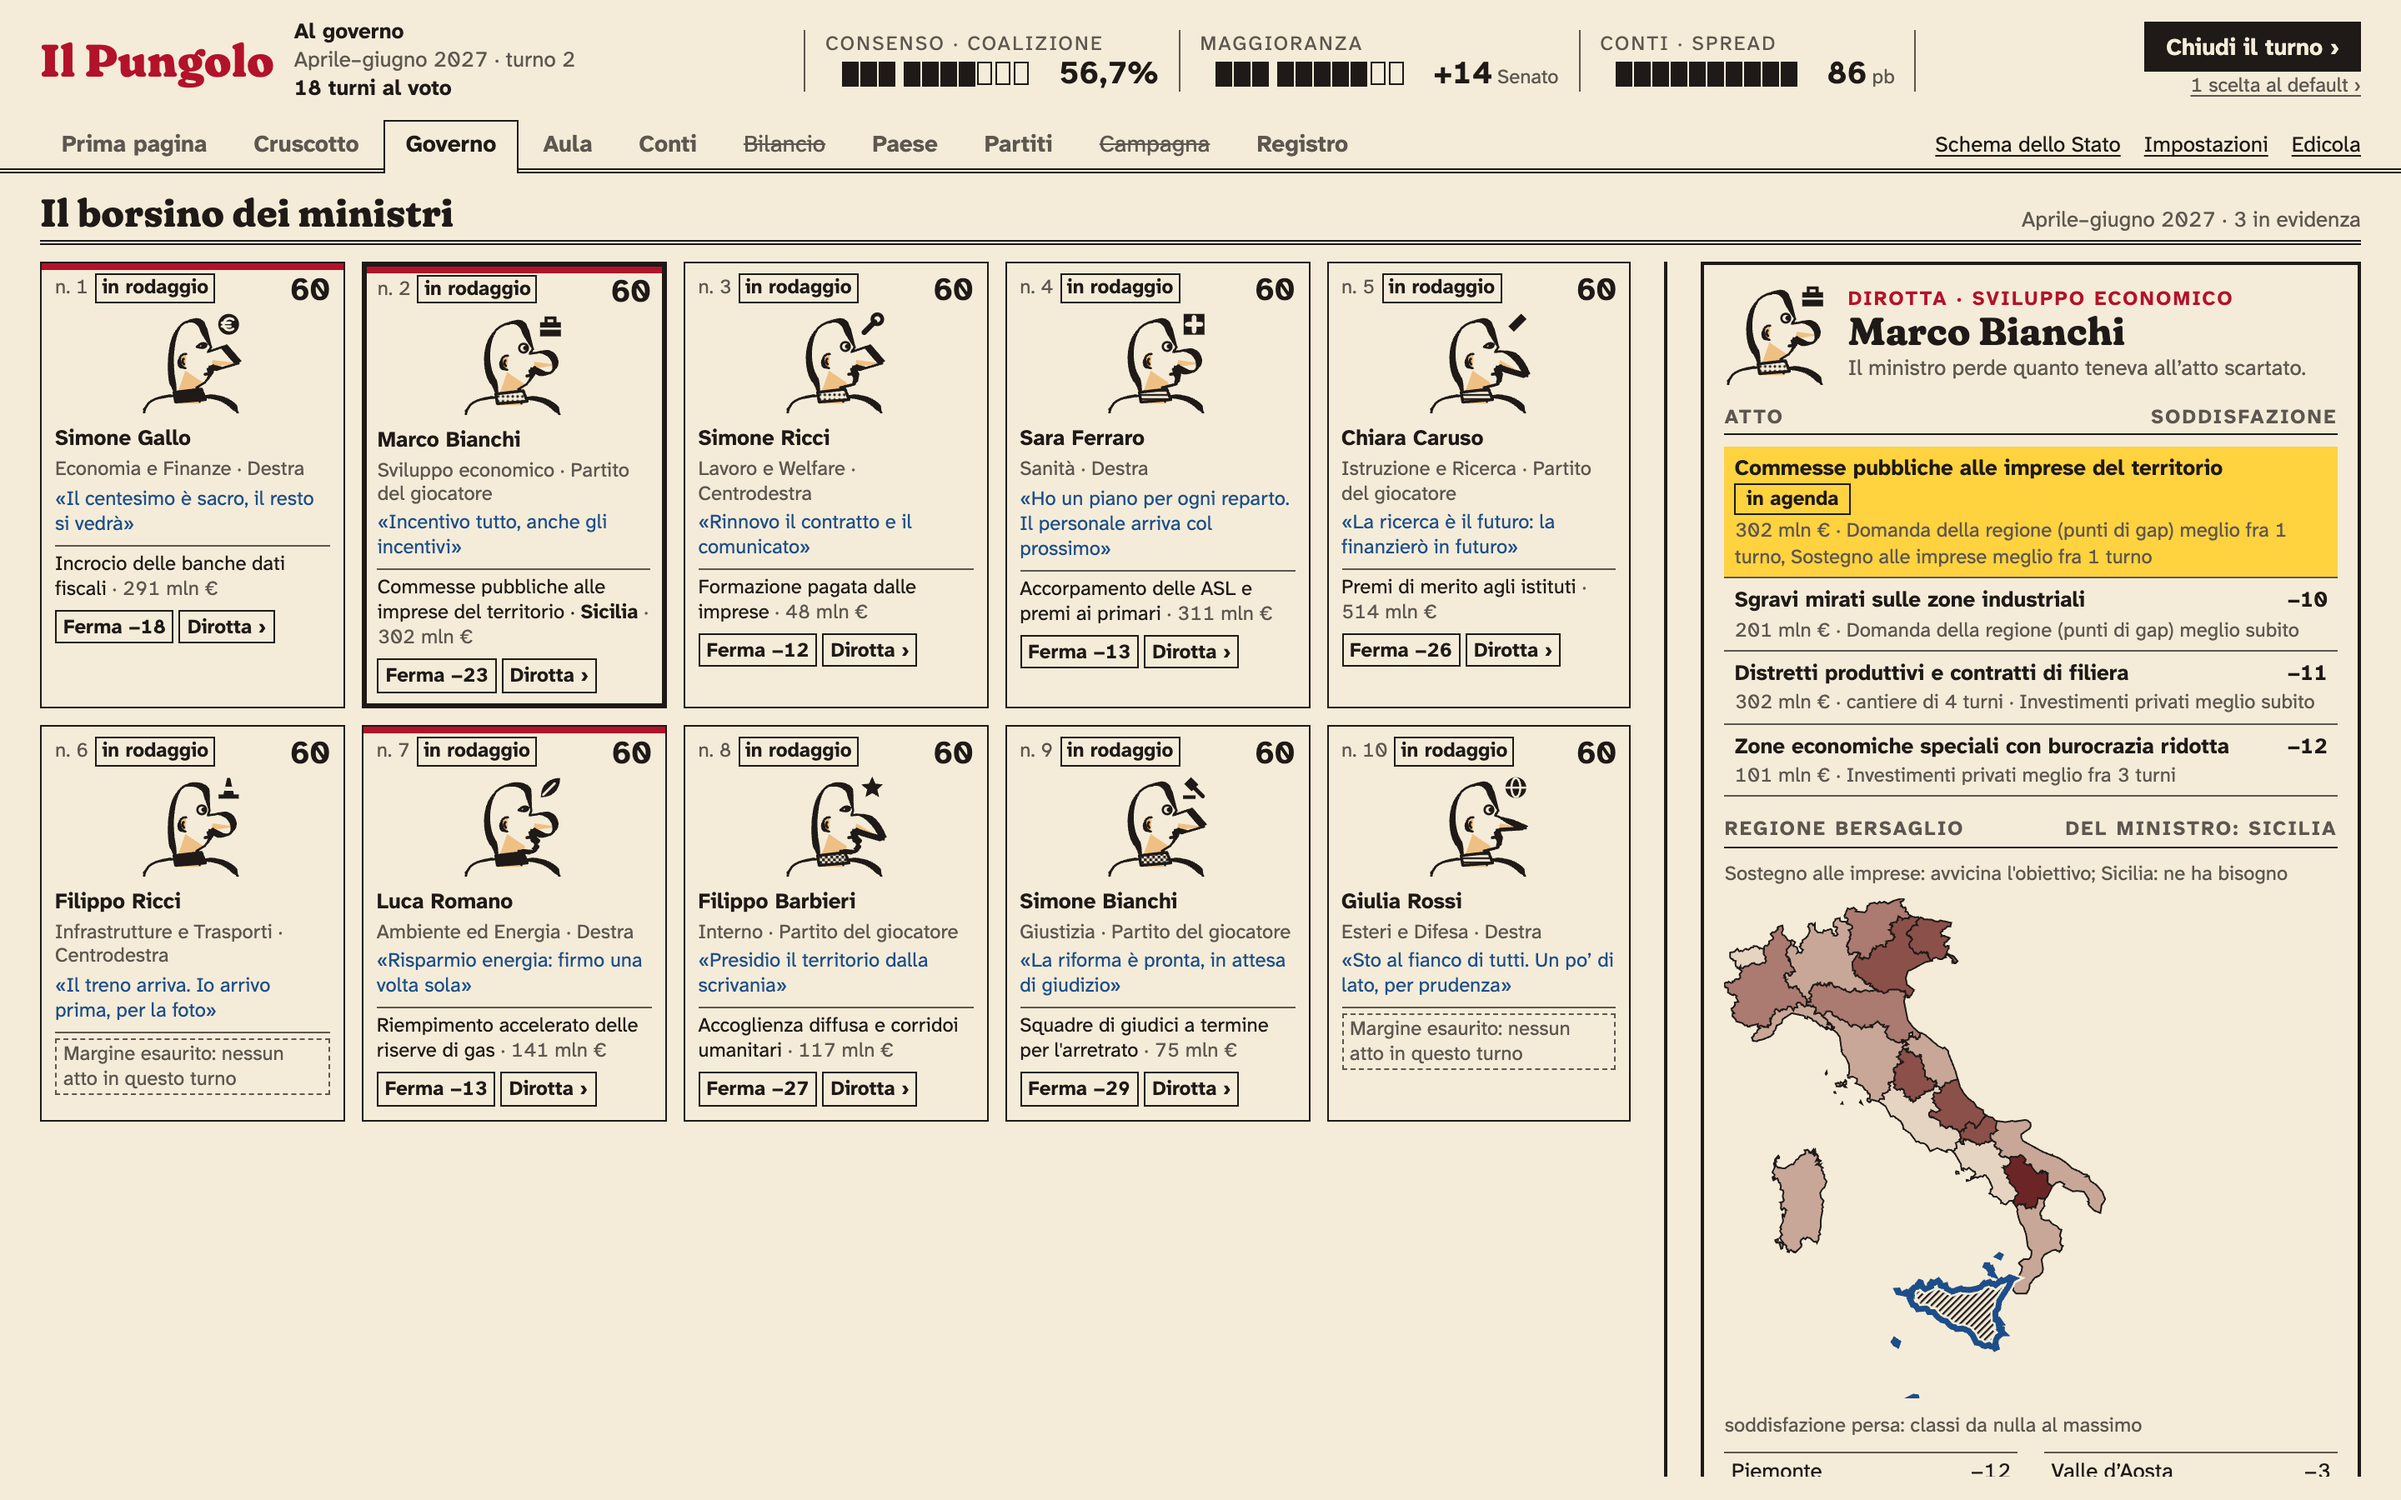
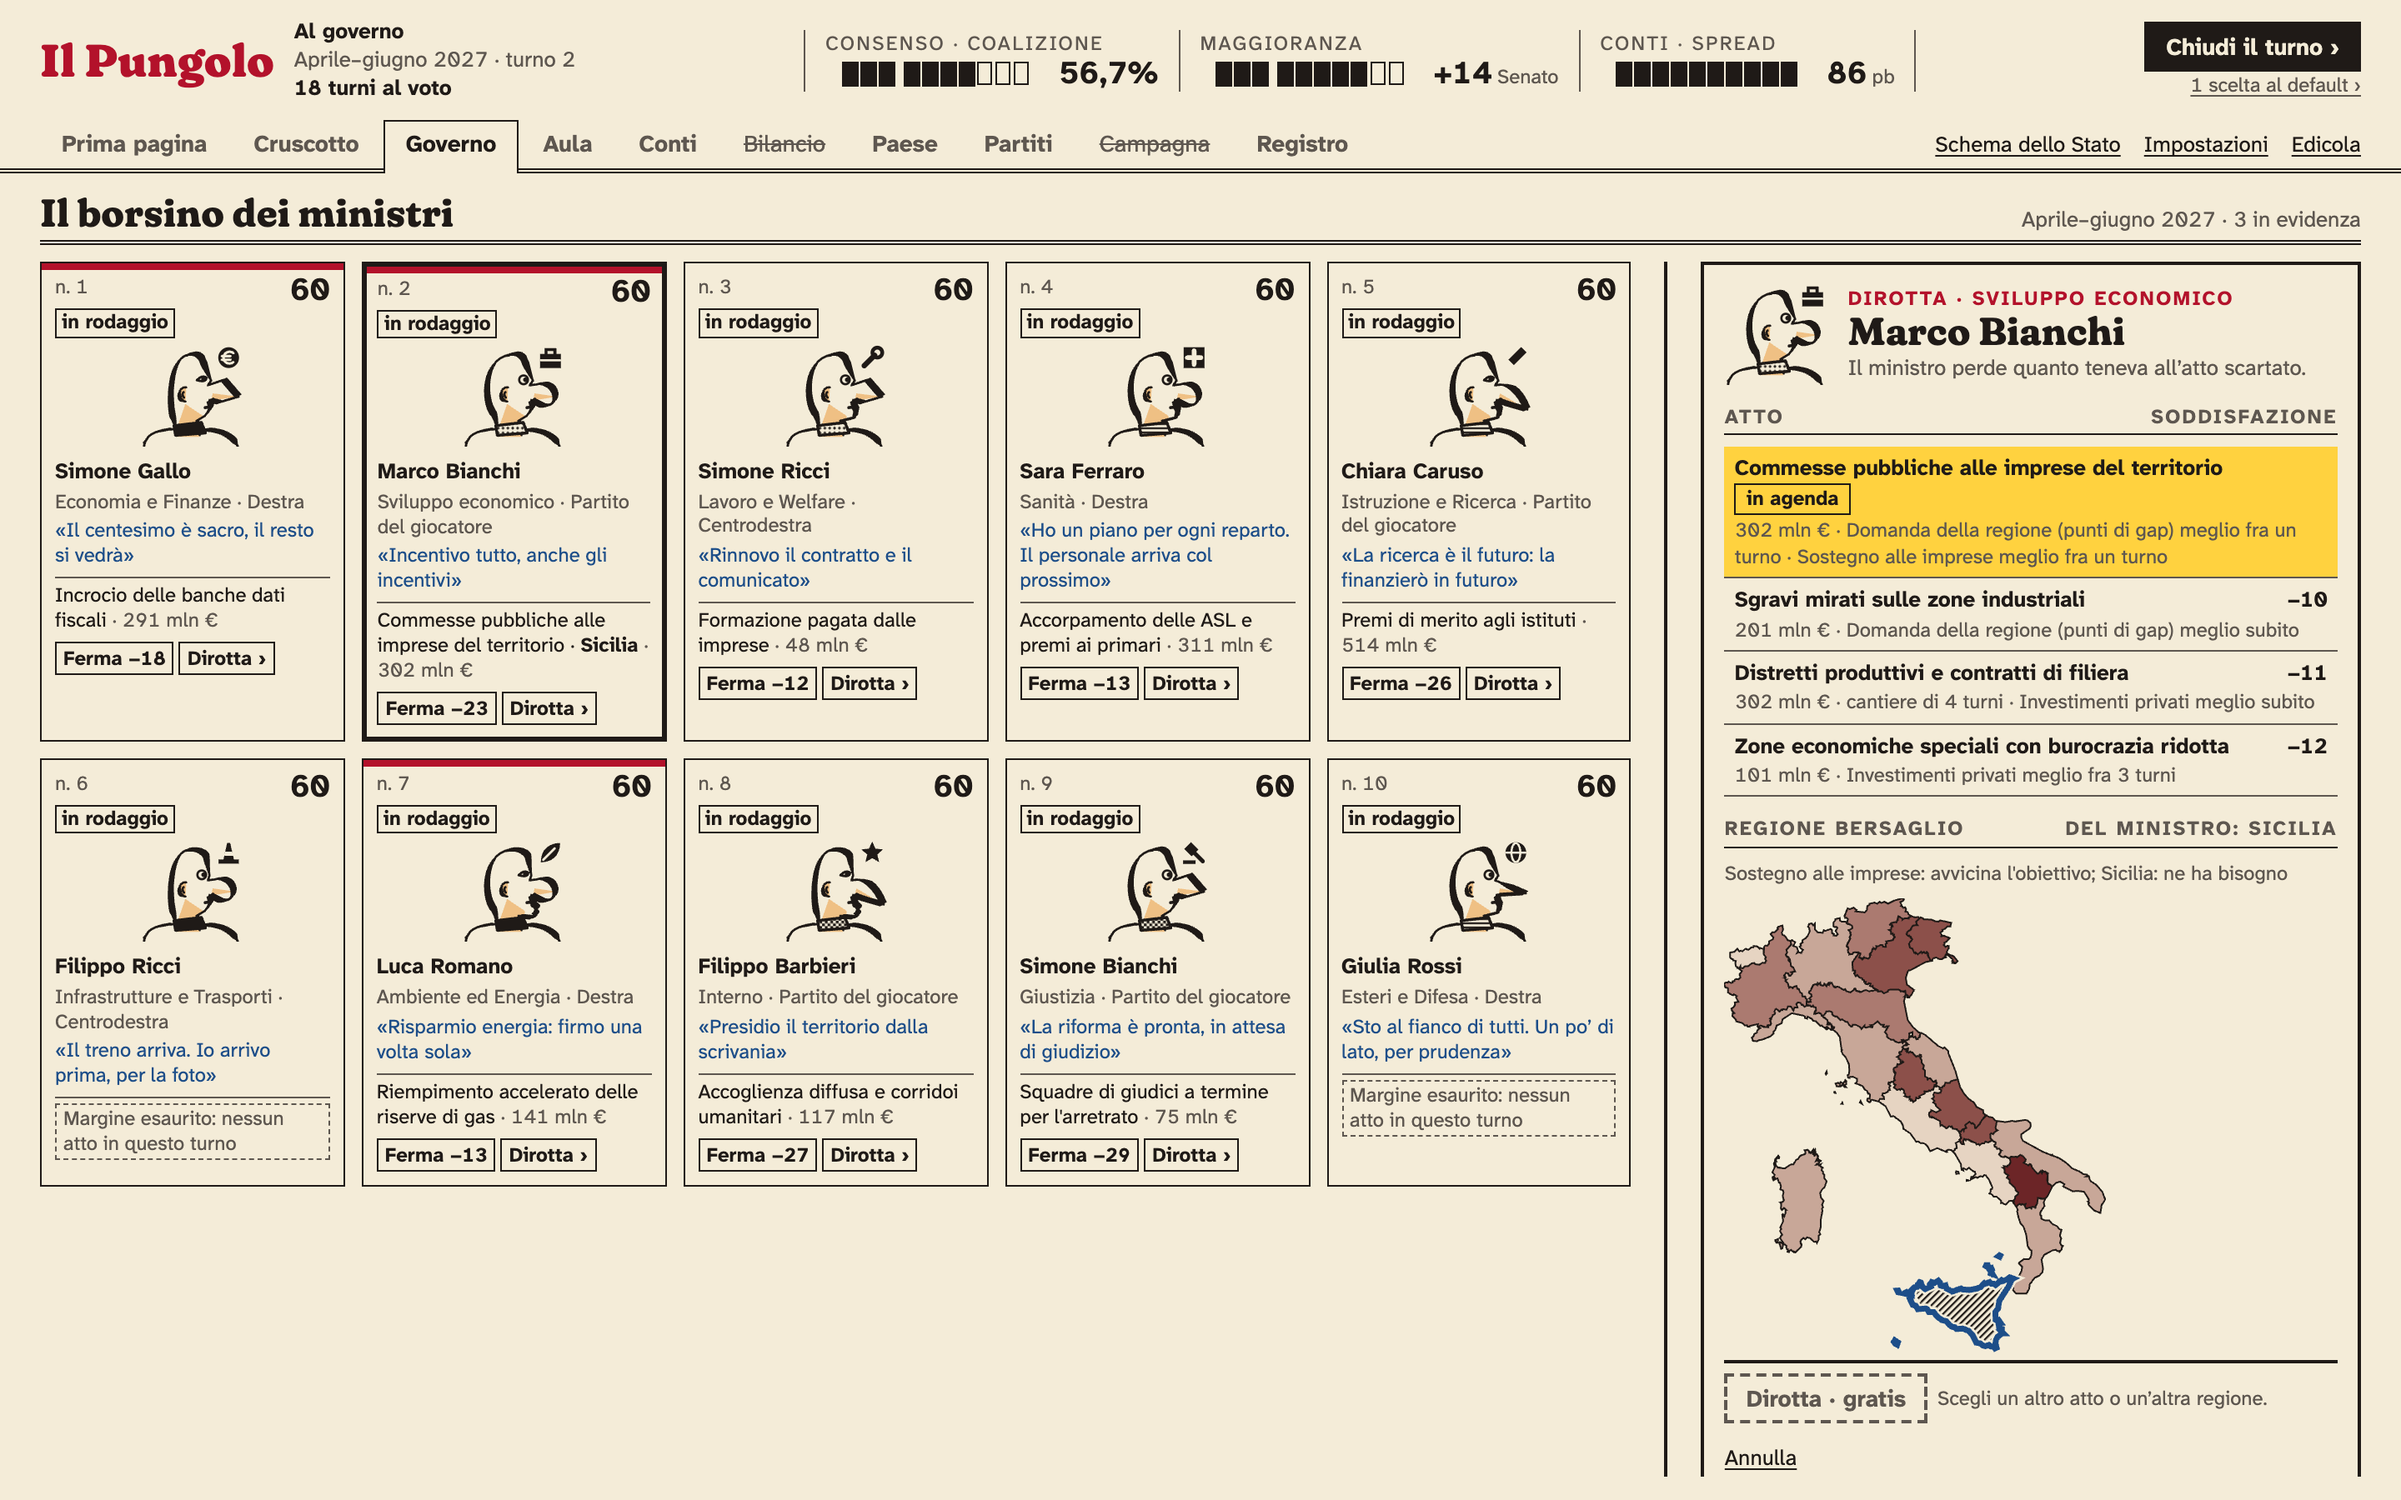
fix(app): Dirotta, barra a filo dello scroller; Figurina, chip sempre sulla sua riga

diff --git a/app/src/lib/governo/Figurina.svelte b/app/src/lib/governo/Figurina.svelte
@@ -36,7 +36,7 @@
 {#snippet fronte()}
 <div class="fr" class:ev={f.evidenza.length > 0} class:sel={scelta}>
   <div class="cima">
-    <div class="sx"><span>{t("governo.numero", { n: f.indice })}</span>
+    <div class="sx"><span class="n">{t("governo.numero", { n: f.indice })}</span>
       {#if stato}<span class="chip" class:rosso={soglia(stato)}>{t(`governo.stato_${stato}` as Chiave)}</span>{/if}
     </div>
     {#if m && f.voto !== null}
@@ -100,9 +100,11 @@
   .fr.sel, .rt.sel { border-width: 3px; padding: 4.5px 6.5px 6.5px }
   .fr:hover:not(.sel) { box-shadow: inset 0 0 0 1.5px var(--ink) }
   .fr.ev:hover:not(.sel) { box-shadow: inset 0 4px 0 var(--rosso), inset 0 0 0 1.5px var(--ink) }
-  .cima { display: flex; justify-content: space-between; align-items: start; gap: 4px; font-size: var(--c-min); color: var(--grigio) }
-  .sx { display: flex; flex-wrap: wrap; align-items: start; gap: 2px 4px; min-width: 0 }
-  .voto { flex: none }
+  .cima { display: grid; grid-template-columns: minmax(0, 1fr) auto; align-items: start; gap: 2px 4px; font-size: var(--c-min); color: var(--grigio) }
+  .sx { display: contents }
+  .n { white-space: nowrap }
+  .sx .chip { grid-row: 2; grid-column: 1 / -1; justify-self: start }
+  .cima .voto { grid-row: 1; grid-column: 2 }
   .chip { display: inline-block; border: 1.5px solid var(--ink); padding: 0 3px; font-size: var(--c-min); font-weight: 700; line-height: 1.3; color: var(--ink); max-width: 100%; overflow-wrap: anywhere }
   .chip.rosso { border-color: var(--rosso); color: var(--rosso) }
   .voto { font-size: var(--c-num); font-weight: 700; line-height: 1; white-space: nowrap; color: var(--ink) }

diff --git a/app/src/lib/governo/Dirotta.svelte b/app/src/lib/governo/Dirotta.svelte
@@ -115,5 +115,5 @@
   .atto[aria-disabled="true"]:hover { background: none }
   .nf { font-weight: 700; font-variant-numeric: tabular-nums; white-space: nowrap }
   .chip { display: inline-block; border: 1.5px solid var(--ink); padding: 0 6px; font-size: var(--c-min); font-weight: 700; line-height: 1.4 }
-  .az { position: sticky; bottom: 0; z-index: 1; display: flex; gap: var(--s3); align-items: center; flex-wrap: wrap; background: var(--carta); border-top: var(--forte); padding: 6px 0 2px; margin-top: 2px }
+  .az { position: sticky; bottom: -8px; z-index: 1; display: flex; gap: var(--s3); align-items: center; flex-wrap: wrap; background: var(--carta); border-top: var(--forte); padding: 6px 0 2px; margin-top: 2px }
 </style>
